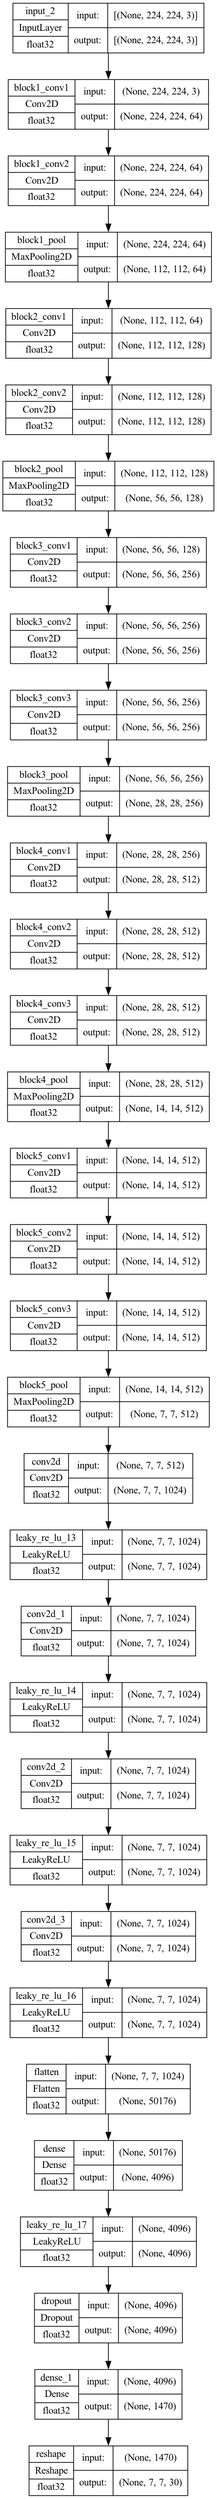
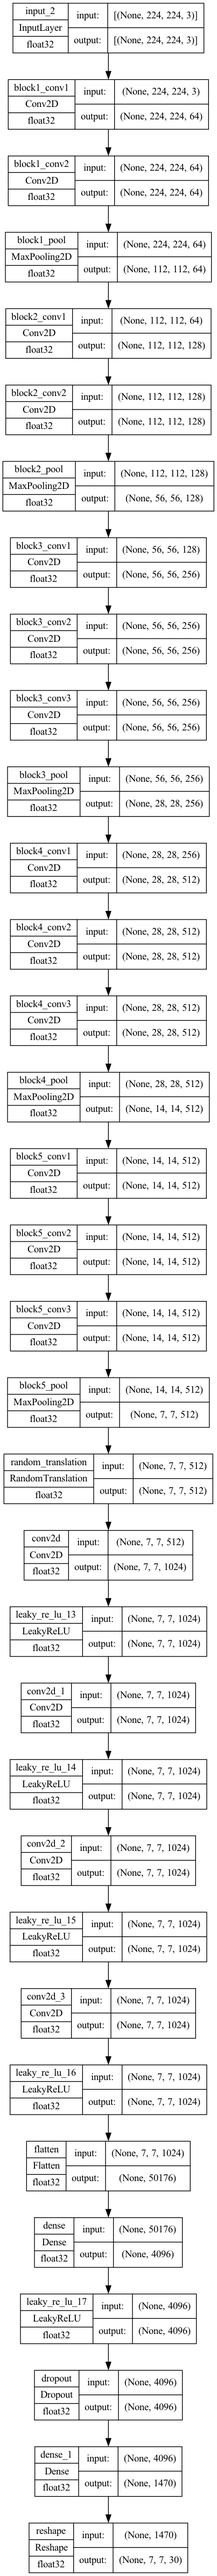
UPDATE model.py - preprocessing layer added

Changed region(s): [[0.0, 0.0, 0.9826, 1.0]]

diff --git a/model.py b/model.py
@@ -7,7 +7,7 @@ import os
 yolo_model = tf.keras.Sequential()
 
 max_num = len(tf.keras.applications.VGG16(weights='imagenet', include_top=False,  input_shape=(224, 224, 3)).layers)
-
+print(max_num)
 for i in range(0, max_num):
     yolo_model.add(tf.keras.applications.VGG16(weights='imagenet', include_top=False, input_shape=(224, 224, 3)).layers[i])
 
@@ -16,6 +16,10 @@ for layer in yolo_model.layers:
     if hasattr(layer, 'activation'):
         layer.activation = tf.keras.layers.LeakyReLU(alpha=0.1)
 # -----------------------------------------------------------------
+# data augmentation (직접 적당히 추가하였음)
+yolo_model.add(tf.keras.layers.RandomTranslation((-0.05, 0.05), (-0.05, 0.05))) # 높이 +- 5%, 너비 +- 5% => 총 20%까지 랜덤성 부여
+# tf 2.9, 2.10 버그로 인해 전처리 몇몇 레이어 사용시 학습속도가 느려진다는 현상이 발견된다고함... 해보고 안되면 지워보자
+
 # Head part
 yolo_model.add(tf.keras.layers.Conv2D(1024, (3,3), padding='same'))
 yolo_model.add(tf.keras.layers.LeakyReLU(0.1)) # conv의 activation func 역할

diff --git a/preprocessing.py b/preprocessing.py
@@ -1,0 +1,11 @@
+import os
+import glob
+import pandas as pd
+import numpy as np
+import shutil
+import xmltodict
+
+# 1. 이미지 전처리
+# 2. train/valid split
+# 3. 이미지 라벨링
+# 4. 데이터 증강
